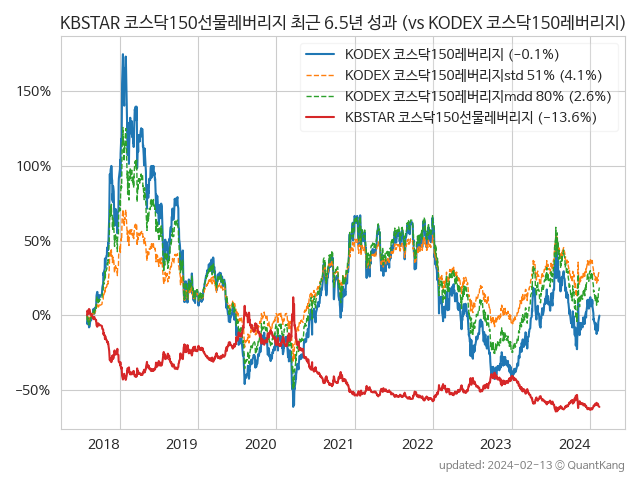
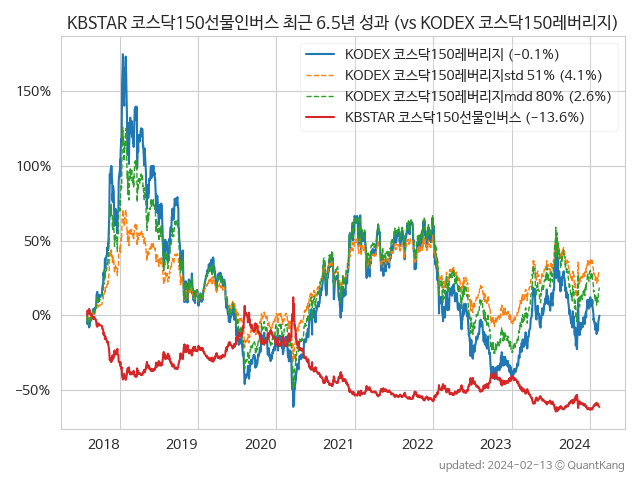
vs tests

Changed region(s): [[0.0938, 0.0312, 1.0, 0.0625], [0.75, 0.2188, 0.9375, 0.25]]

diff --git a/_posts/vs/2024-02-13-275750-vs-233740.md b/_posts/vs/2024-02-13-275750-vs-233740.md
@@ -1,7 +1,7 @@
 ---
 layout: splash
-title: KBSTAR 코스닥150선물레버리지 vs KODEX 코스닥150레버리지
-excerpt: KBSTAR 코스닥150선물레버리지의 최근 6.5년 CAGR은 -13.6%로 KODEX 코스닥150레버리지의 -0.1%보다 -13.6% 낮았습니다.
+title: KBSTAR 코스닥150선물인버스 vs KODEX 코스닥150레버리지
+excerpt: KBSTAR 코스닥150선물인버스의 최근 6.5년 CAGR은 -13.6%로 KODEX 코스닥150레버리지의 -0.1%보다 -13.6% 낮았습니다.
 header:
   overlay_color: "#333"
   show_overlay_excerpt: false
@@ -11,30 +11,30 @@ categories:
 
 | **종목** | **CAGR** | **편차** | **샤프** | **MDD** | **AvDD** |
 | :------------ | ------: | -----------: | -------: | ------: | -------: |
-| KBSTAR 코스닥150선물레버리지 | <span style="color: cornflowerblue">-13.6<small>%</small></span> | 29.6<small>%</small> | -0.46 | -68.4<small>%</small> | -43.6<small>%</small> |
+| KBSTAR 코스닥150선물인버스 | <span style="color: cornflowerblue">-13.6<small>%</small></span> | 29.6<small>%</small> | -0.46 | -68.4<small>%</small> | -43.6<small>%</small> |
 | KODEX 코스닥150레버리지 | <span style="color: cornflowerblue">-0.1<small>%</small></span> | 57.5<small>%</small> | -0.00 | -86.0<small>%</small> | -53.6<small>%</small> |
 
 <!-- more -->
 
 <br>
-![KBSTAR 코스닥150선물레버리지](/vs/images/275750-vs-233740.png){: .align-center}
+![KBSTAR 코스닥150선물인버스](/vs/images/275750-vs-233740.png){: .align-center}
 
 <br>
-> **KBSTAR 코스닥150선물레버리지 vs. KODEX 코스닥150레버리지**<small>[^fn_price_metric]</small>
+> **KBSTAR 코스닥150선물인버스 vs. KODEX 코스닥150레버리지**<small>[^fn_price_metric]</small>
 
 
 
 | **종목** | **CAGR** | **편차** | **샤프** | **MDD** | **AvDD** |
 | :------------ | ------: | -----------: | -------: | ------: | -------: |
-| KBSTAR 코스닥150선물레버리지 | <span style="color: cornflowerblue">-13.6<small>%</small></span> | 29.6<small>%</small> | -0.46 | -68.4<small>%</small> | -43.6<small>%</small> |
+| KBSTAR 코스닥150선물인버스 | <span style="color: cornflowerblue">-13.6<small>%</small></span> | 29.6<small>%</small> | -0.46 | -68.4<small>%</small> | -43.6<small>%</small> |
 | KODEX 코스닥150레버리지 | <span style="color: cornflowerblue">-0.1<small>%</small></span> | 57.5<small>%</small> | -0.00 | -86.0<small>%</small> | -53.6<small>%</small> |
 | 233740<sub>std</sub> <small>(51%)</small> | <span style="color: tomato">4.1<small>%</small></span> | 29.6<small>%</small> | 0.14 | -60.0<small>%</small> | -26.1<small>%</small> |
 | 233740<sub>mdd</sub> <small>(80%)</small> | <span style="color: tomato">2.6<small>%</small></span> | 45.8<small>%</small> | 0.06 | -77.7<small>%</small> | -42.6<small>%</small> |
 
 <br>
-수익률 지표를 살펴보면, KBSTAR 코스닥150선물레버리지의 지난 6.5년간 CAGR은 -13.6%로 KODEX 코스닥150레버리지의 -0.1%보다 -13.6% 낮았습니다.
+수익률 지표를 살펴보면, KBSTAR 코스닥150선물인버스의 지난 6.5년간 CAGR은 -13.6%로 KODEX 코스닥150레버리지의 -0.1%보다 -13.6% 낮았습니다.
 
-위험도 지표의 하나인 표준편차를 비교하면, KBSTAR 코스닥150선물레버리지의 29.6%는  KODEX 코스닥150레버리지의 57.5%보다 -28.0% 낮았습니다.
+위험도 지표의 하나인 표준편차를 비교하면, KBSTAR 코스닥150선물인버스의 29.6%는  KODEX 코스닥150레버리지의 57.5%보다 -28.0% 낮았습니다.
 
 
 <br>
